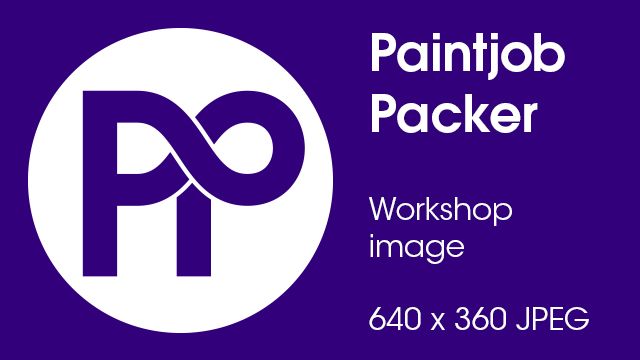
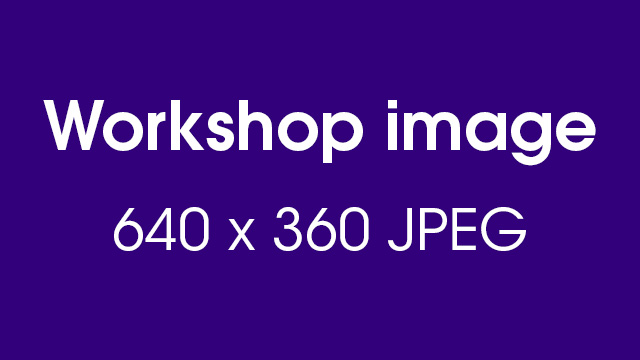
Improve placeholder images
The paintjob icon has been resaved with premultiplied alphas, so it no
longer shows up with white crust around it in-game. All placeholder
images have also been modified to remove the big Paintjob Packer logos,
so that the important information (namely image size) is more prominent.
As premultiplying the alphas of the icon removed the crust, there is no
longer a need to fiddle with the TOBJs, so TODOs in paintjob.py
referring to it have been removed.

Changed region(s): [[0.0312, 0.0611, 0.9375, 0.9472], [0.5625, 0.0917, 0.9062, 0.2139], [0.5625, 0.8556, 0.9375, 0.9167]]

diff --git a/library/paintjob.py b/library/paintjob.py
@@ -51,7 +51,7 @@ def check_if_ascii(string_input):
     else:
         return False
 
-def generate_tobj(path): # TODO: icon tobj?
+def generate_tobj(path):
[1 lines of base64/hex data omitted]
     tobj_string += convert_string_to_hex(len(path))
     tobj_string += "00000000000000"
@@ -124,7 +124,7 @@ def make_material_folder(output_path):
 def copy_paintjob_icon(output_path, ingame_name):
     shutil.copyfile("library/placeholder files/paintjob_icon.dds", output_path + "/material/ui/accessory/{} Icon.dds".format(ingame_name))
 
-def make_paintjob_icon_tobj(output_path, ingame_name): # TODO: tobj like SCS paintjobs, makes a difference?
+def make_paintjob_icon_tobj(output_path, ingame_name):
     file = open(output_path + "/material/ui/accessory/{} Icon.tobj".format(ingame_name), "wb")
     file.write(generate_tobj("/material/ui/accessory/{} Icon.dds".format(ingame_name)))
     file.close()
